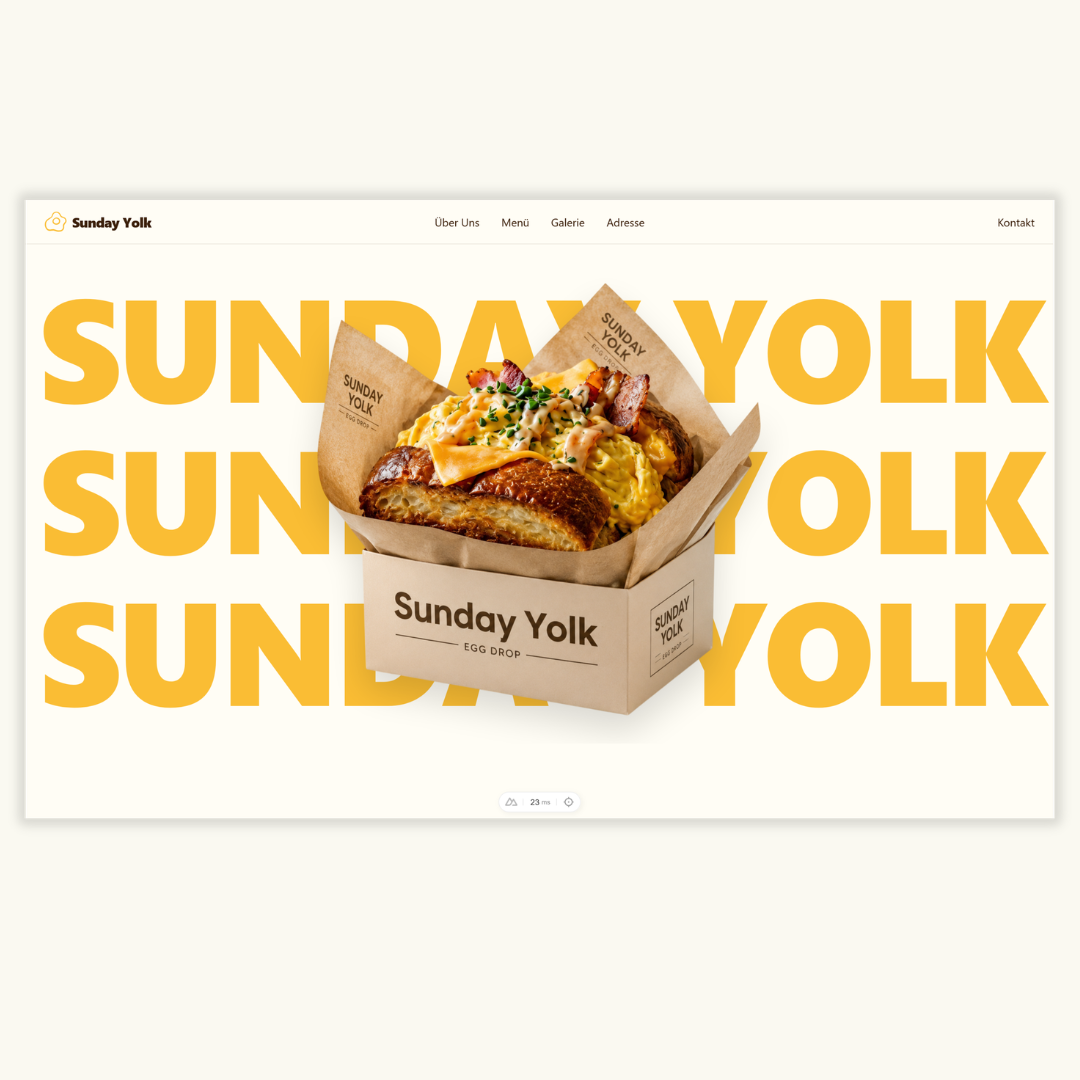
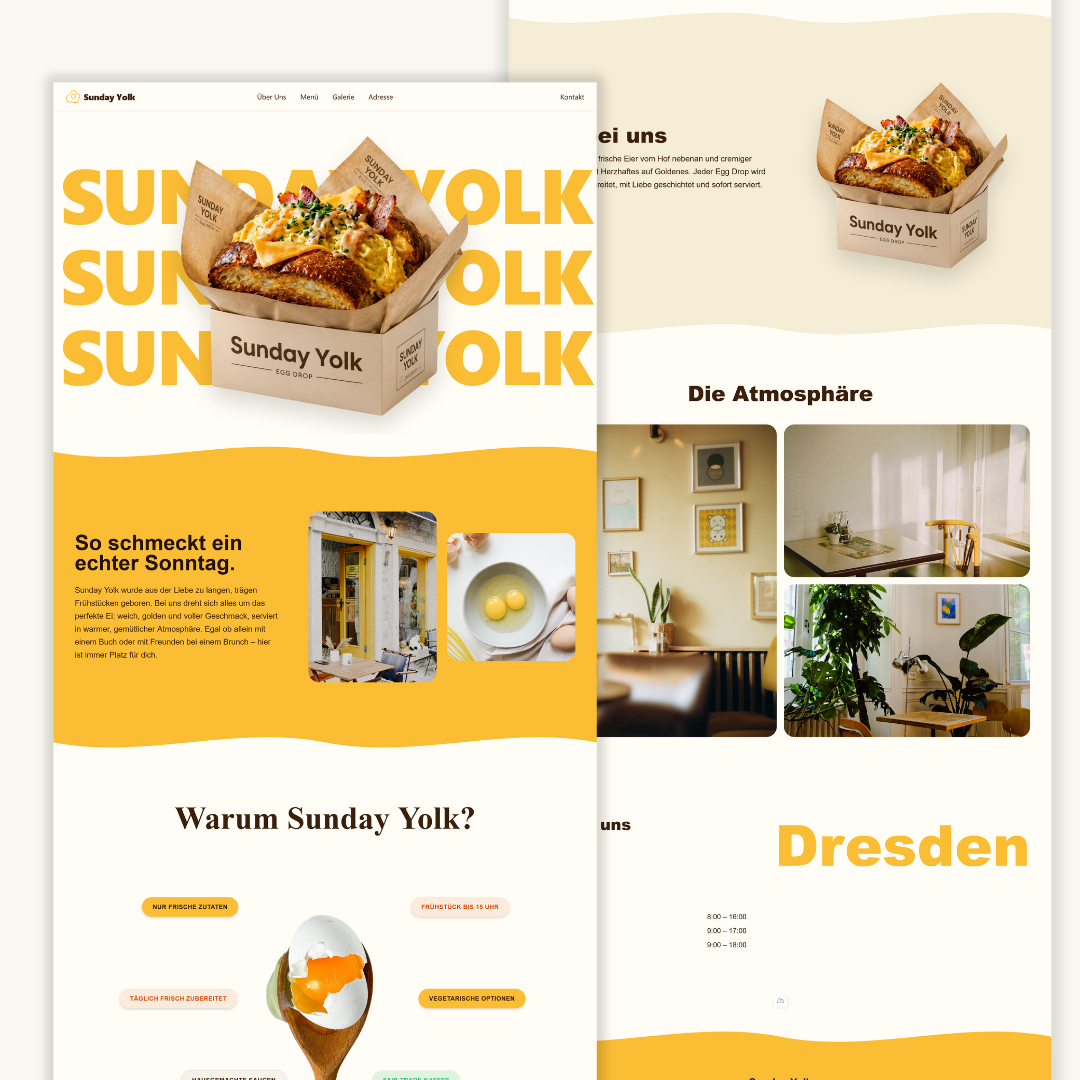
neue bilder

diff --git a/data/referenzen.js b/data/referenzen.js
@@ -56,7 +56,7 @@ features: [
   imgDescriptionMobile: "/sunday-header-mobile.png",
   imgLaptopHeader: "",
   imgMobile: "",
-  fullScreenshot: "",
+  fullScreenshot: "/sunday-screenshot-full.png",
 },
   {
     slug: "krautvollglueck",